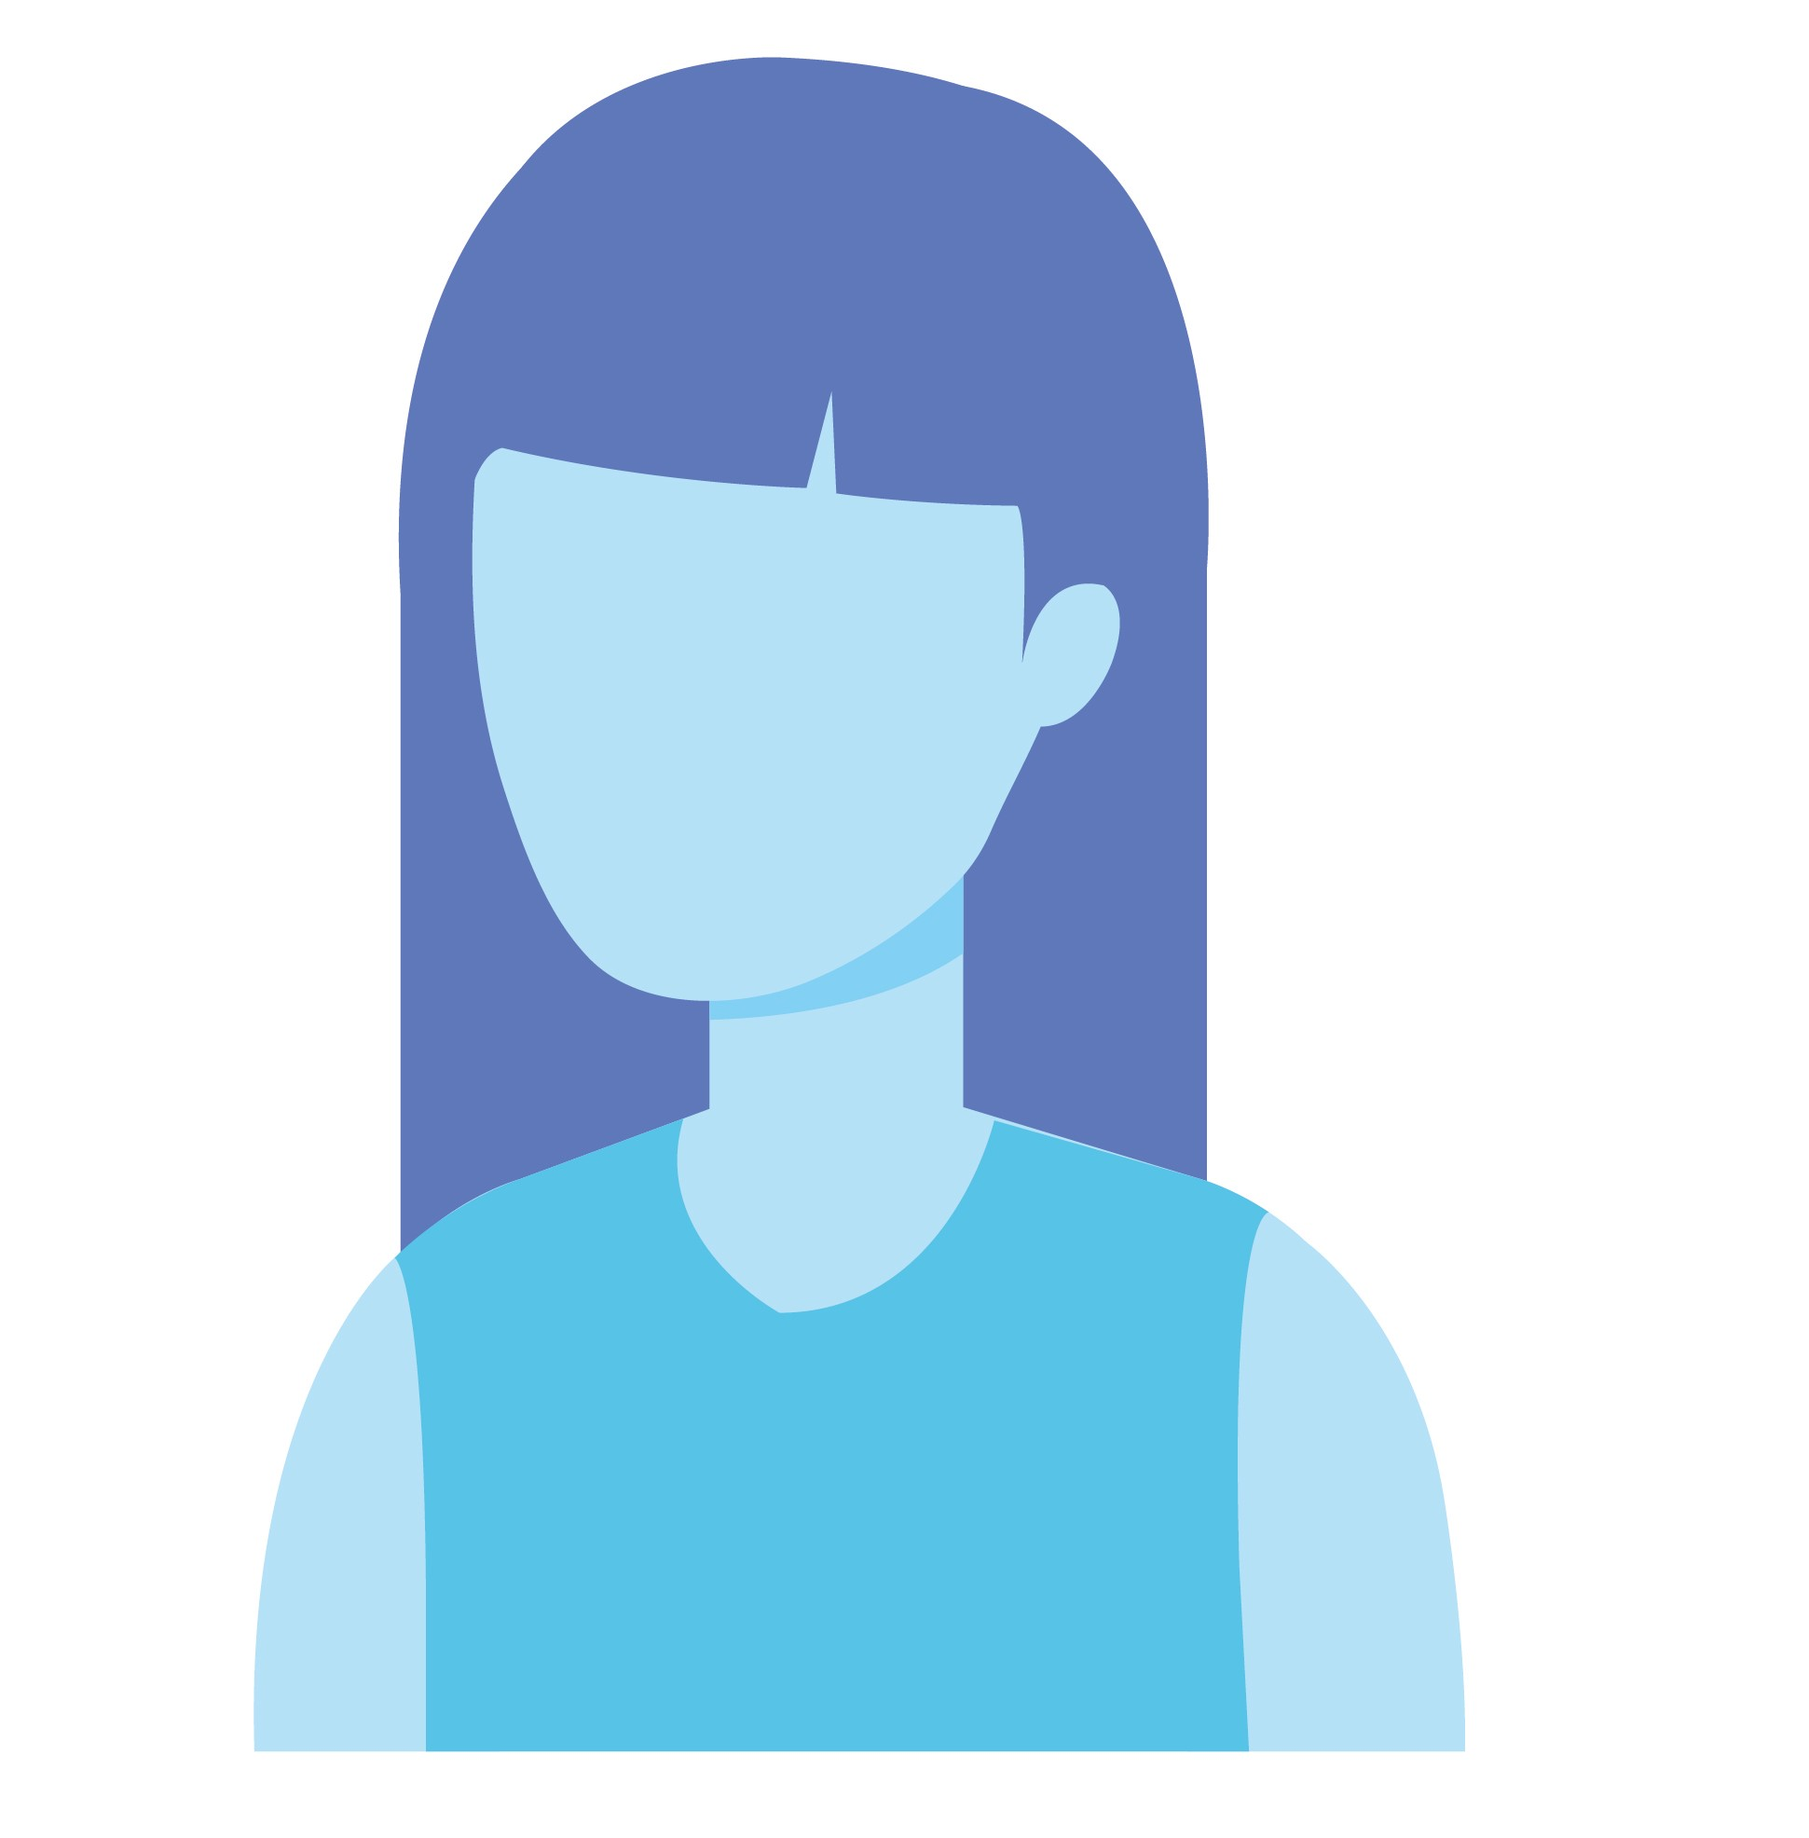
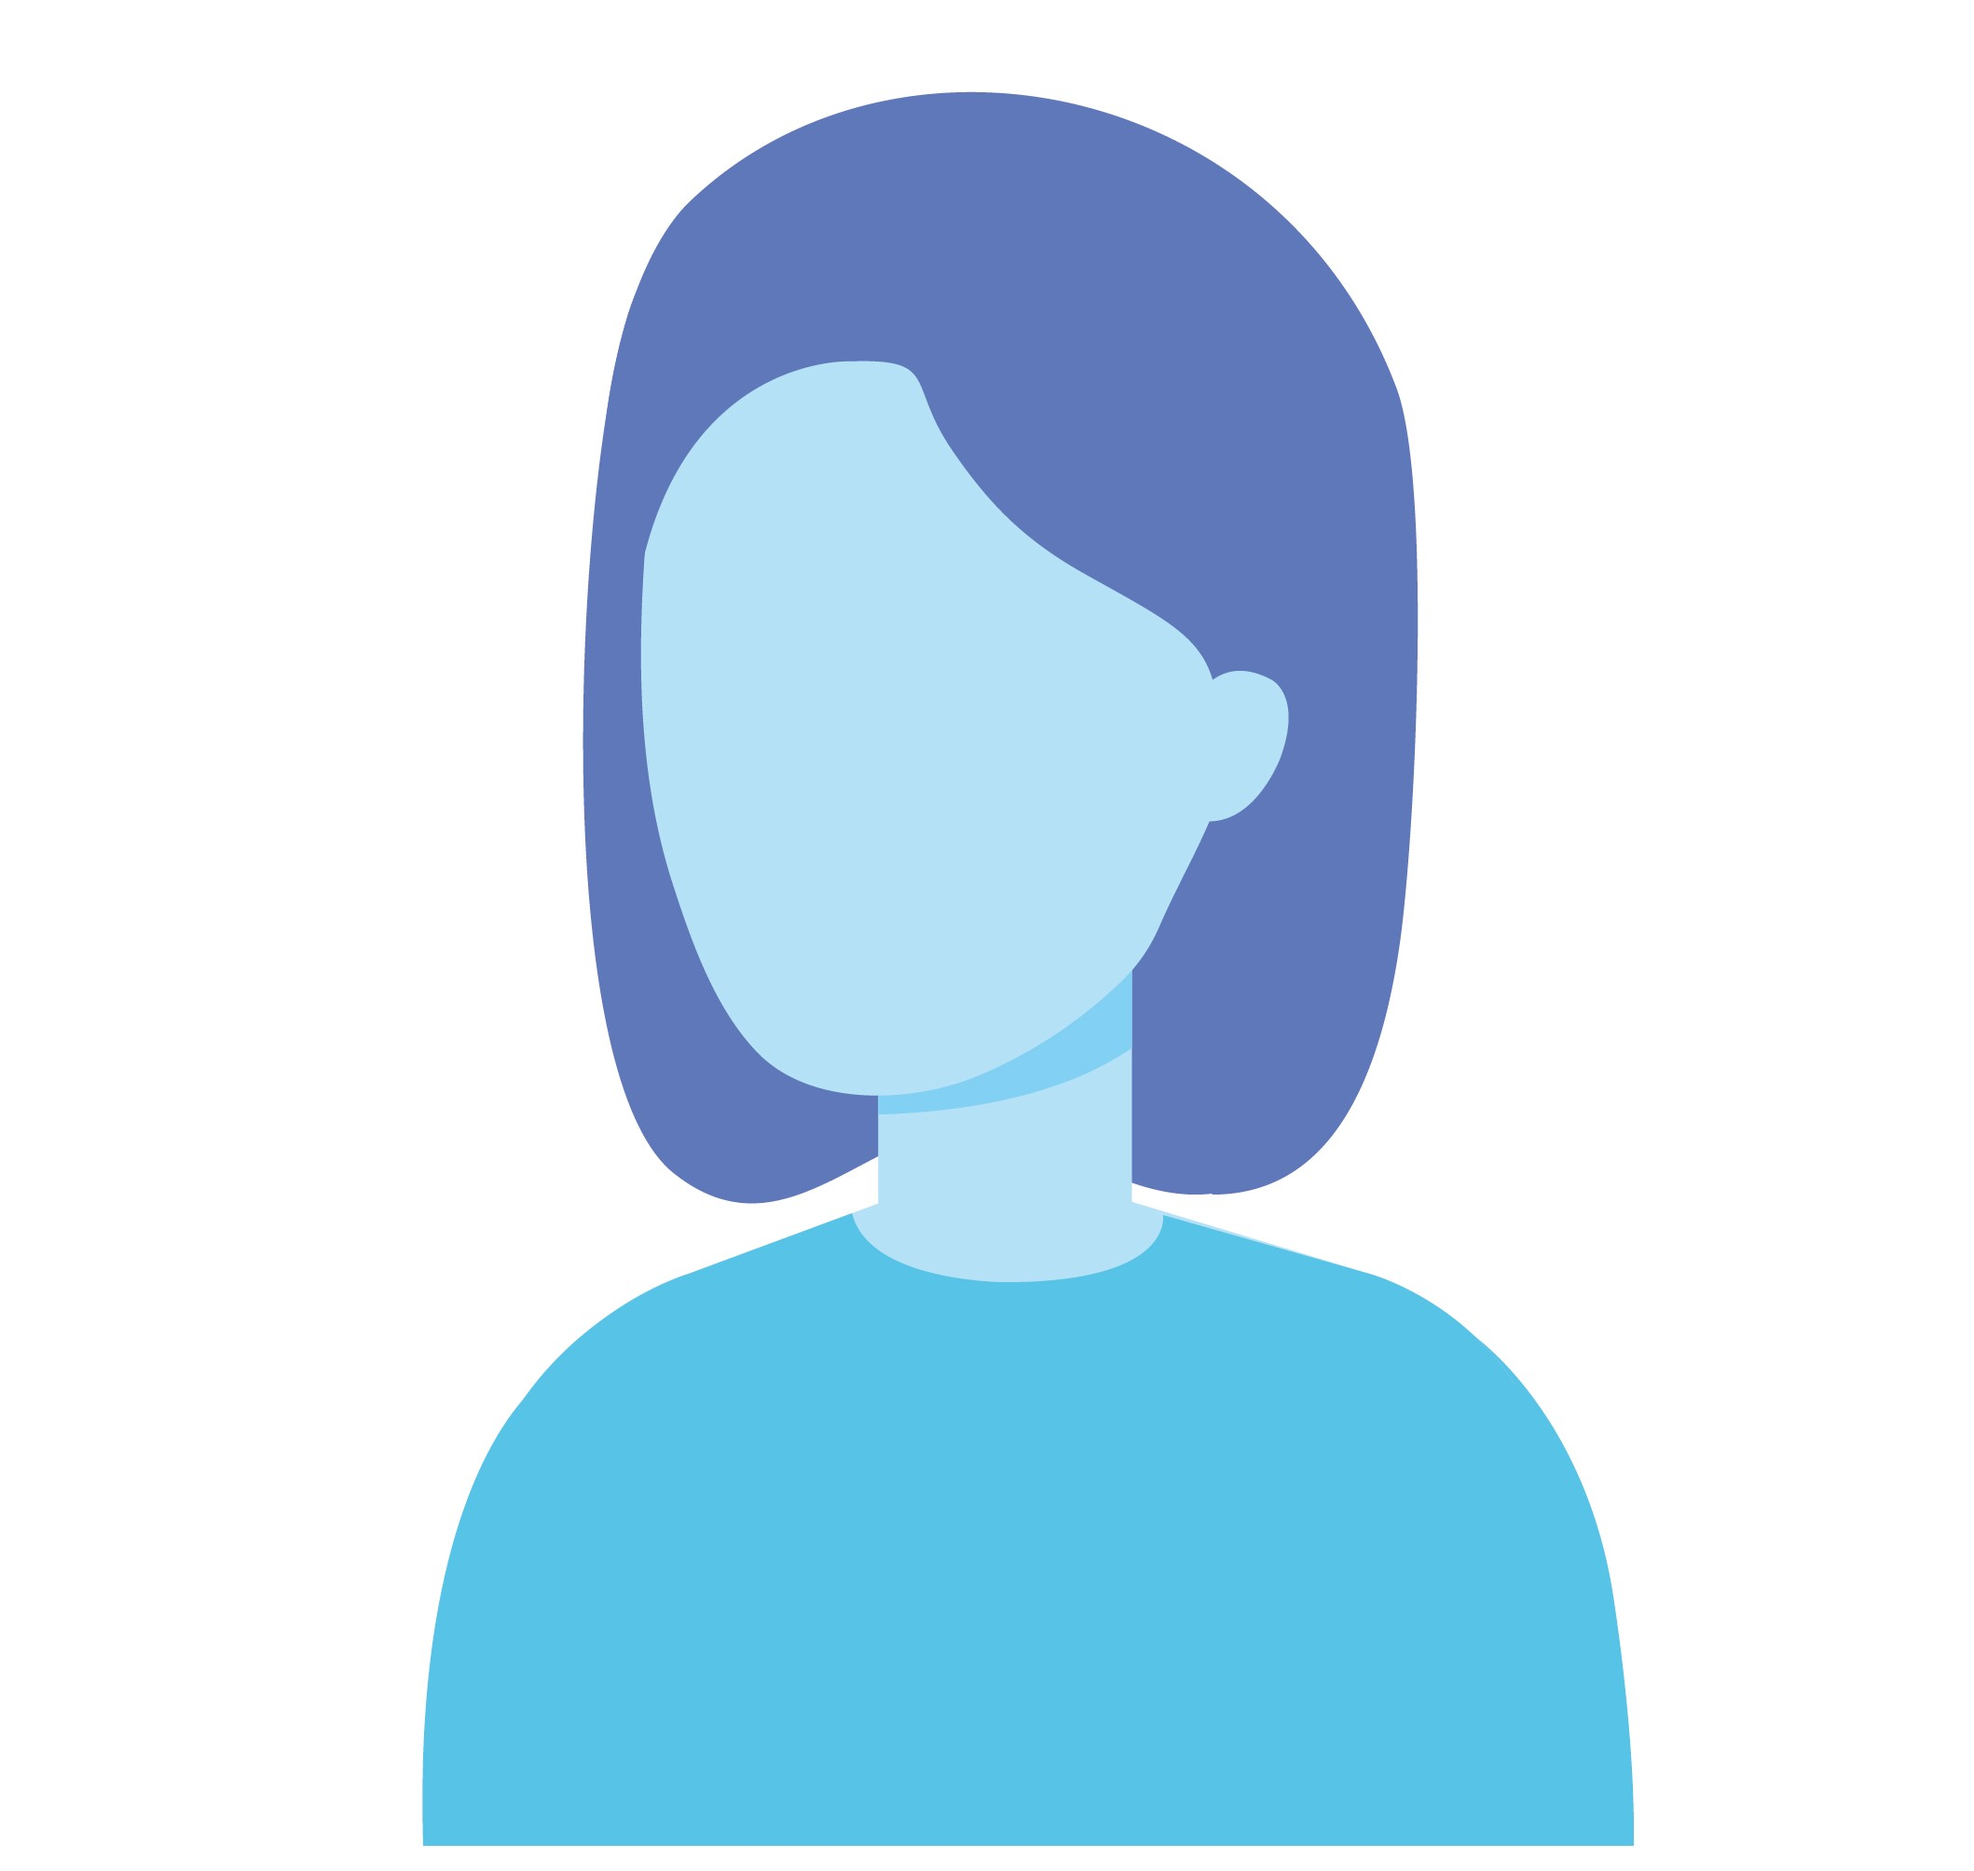
Agregados nuevos familiares e intercambiadas las fotos por defecto

Changed region(s): [[0.1236, 0.0309, 0.8346, 0.9899], [0.5873, 0.0619, 0.6182, 0.0928]]

diff --git a/familiares.js b/familiares.js
@@ -79,7 +79,7 @@ const familiares = [
 	Nacionalidad: "Argentina", 
 	Residencia: "Ciudad Autónoma de Buenos Aires | Argentina", 
 	Título: "", 
-	img: "./img/Mujer_1.jpg" },
+	img: "./img/Mujer_2.jpg" },
 { 
 	id: 10,
 	pid: 7, 
@@ -101,4 +101,15 @@ const familiares = [
 	Título: "",
 	Profesión: "Cirujano",
 	img: "./img/Hombre_1.jpg" },
+{ 
+	id: 12,
+	pid: 4, 
+	Nombre: "Patricia Caffarini",
+	img: "./img/Mujer_1.jpg" },
+{ 
+	id: 13,
+	pid: 5, 
+	tags: ["partner"],
+	Nombre: "Enrique Di Leone",
+	img: "./img/Hombre_1.jpg" }
 ]
